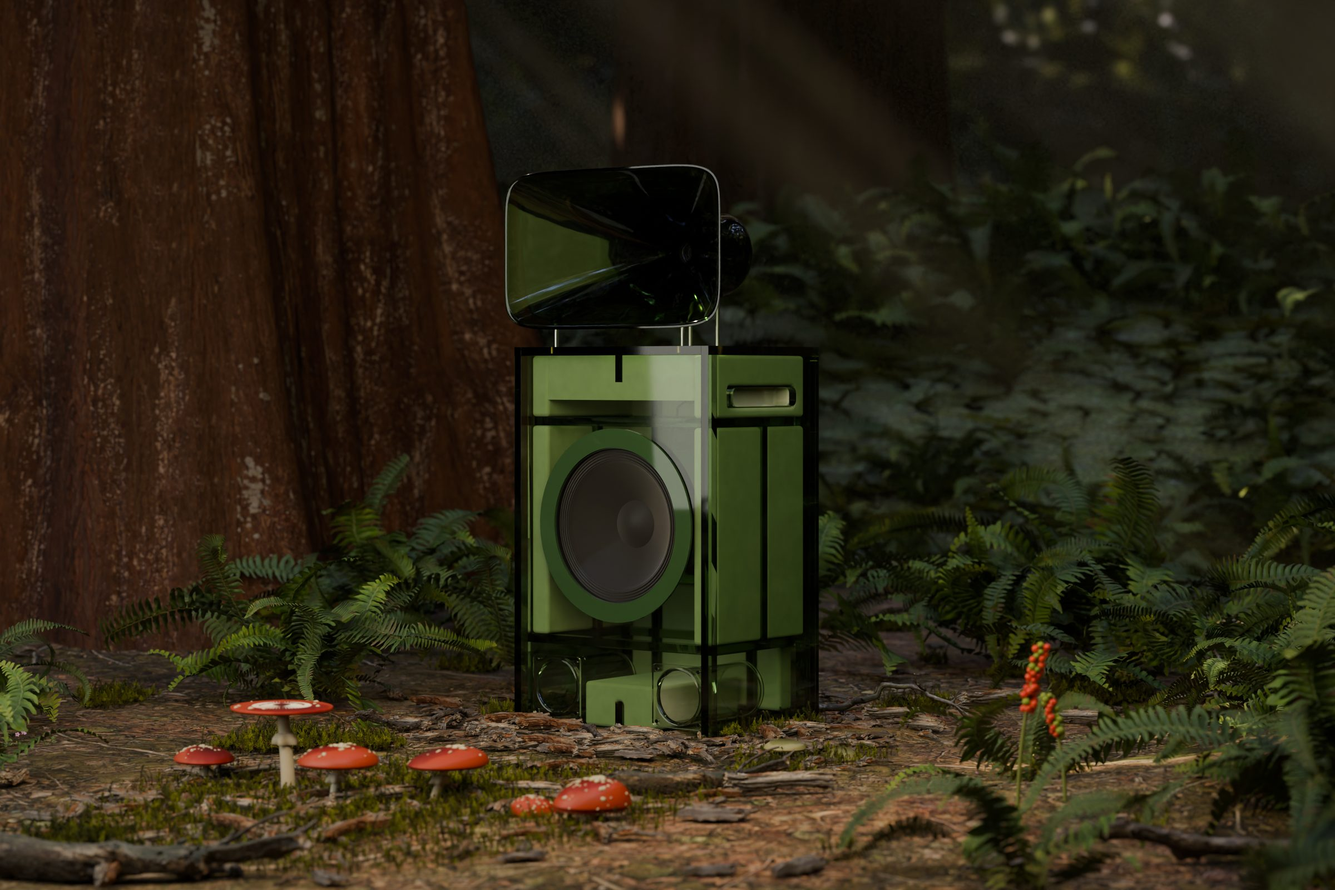
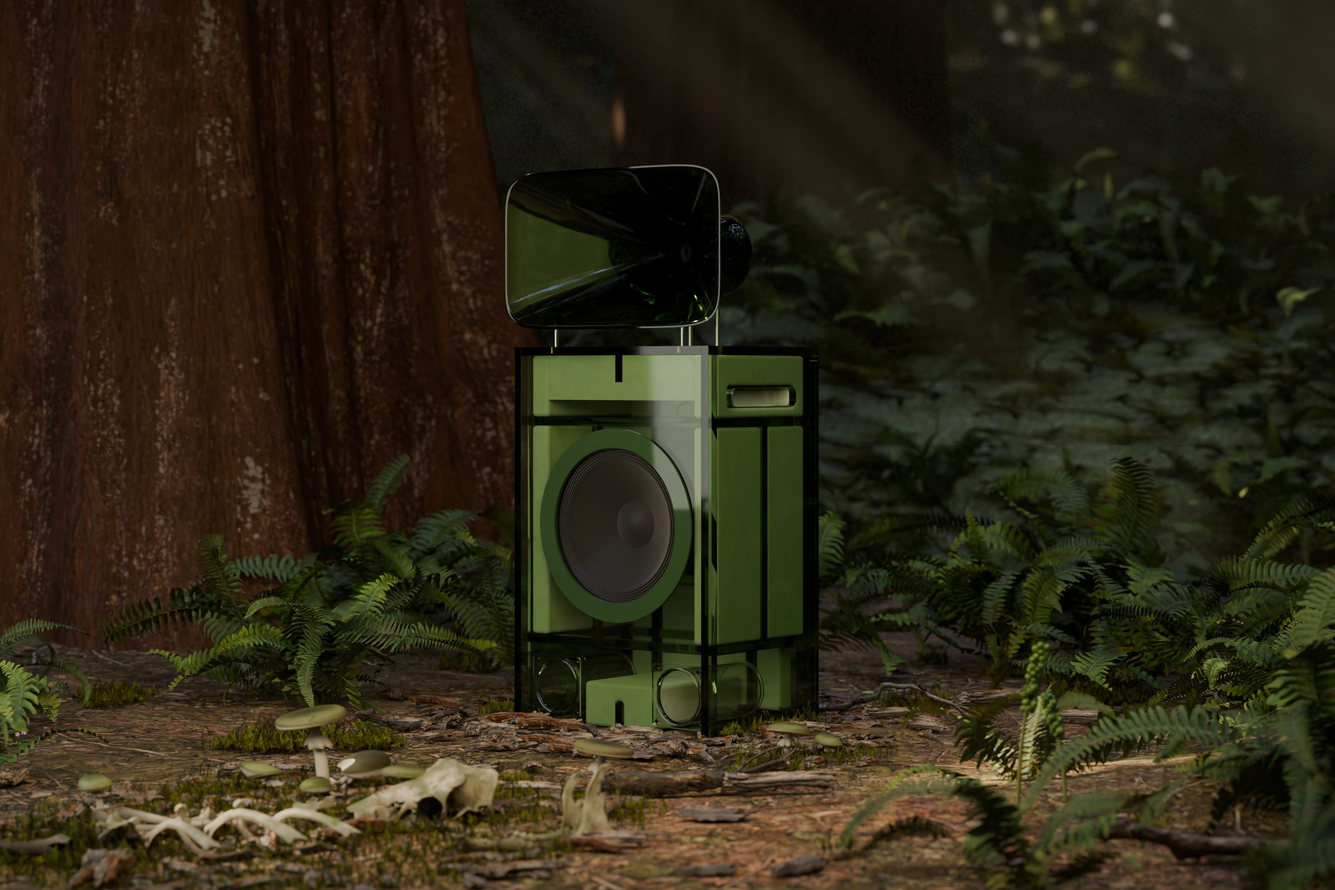
barkhorn site: Poison in its element is G5, death caps and a deer's bones (the owner, 2026-10-22: "Poison: put the deadly green one live")
ELEMENT['green'] = 'poison_g5', captioned "on a redwood forest floor, among death caps and a
deer's bones"; the three habitat pictures rebuilt from the finals. Checked locally at 1440,
820 and 390 px, light and dark: the pictures load, the caption shows, no overflow, no page
errors. F1b stays in the repo. README: the owner's picks of 2026-10-22.

Claude-Session: https://claude.ai/code/session_016Hs9fK3h2VwVeRXpa18b1z

diff --git a/spinoffs/barkhorn/site/index.html b/spinoffs/barkhorn/site/index.html
@@ -610,7 +610,7 @@ html.cursor, html.cursor * { cursor: none !important }
 </div></footer>
 
 <script>
[2 lines of base64/hex data omitted]
 const SLUG = Object.fromEntries(D.clouds.map(c => [c.name.toLowerCase(), c.k])), keyOf = w => SLUG[w] || (BY[w] ? w : null);
 const reduce = matchMedia('(prefers-reduced-motion: reduce)').matches, TAU = Math.PI * 2;
 // lit from below: scrolling picks the colour (a quarter of a screen each) and time plays the change; the coins are a

diff --git a/spinoffs/barkhorn/web.py b/spinoffs/barkhorn/web.py
@@ -62,7 +62,7 @@ ELEMENT = dict(HABITAT)       # which concept each colour shows in its element: 
 ELEMENT['violet'] = 'haze_b'  # the layered hills beat the lavender field in a blind duel, 2 to 1 (6.2 to 5.9)
 ELEMENT['amber'] = 'acid_b'   # acid rain on black lava beat the acid spring at Dallol in a blind duel, 2 to 1 (6.3 to 5.4)
 ELEMENT['ice'] = 'fog_b'      # the headland above the fog at dawn beat the summit above a sea of cloud in a blind duel, 3 to 0 (6.7 to 4.7)
-ELEMENT['green'] = 'poison_f1b'  # the owner's pick (2026-10-20): A4's wood without the foxgloves, more caps and the arum's berries, after a realism pass
+ELEMENT['green'] = 'poison_g5'   # the owner (2026-10-22): "Poison: put the deadly green one live" - death caps and a deer's bones (G5 p4)
 ELEMENT['black'] = 'smoke_e9'    # the owner (2026-10-21): "I wanted bridge smoke" - the bridge, its smoke simulated (E9 p5)
 PLACES = {  # where each concept stands: the speaker page leads with it ("Ember on a lava field at blue hour.")
     'ember': 'on a lava field at blue hour, the crust cracked to its glow',
@@ -71,6 +71,7 @@ PLACES = {  # where each concept stands: the speaker page leads with it ("Ember 
     'poison': 'on a redwood forest floor, among ferns', 'poison_a3': 'on a redwood forest floor, among ferns, foxgloves and fly agarics',
     'poison_a4': 'on a redwood forest floor, behind a troop of fly agarics, among ferns and foxgloves',
     'poison_f1b': 'on a redwood forest floor, among fly agarics, ferns and the berries of lords-and-ladies',
+    'poison_g5': 'on a redwood forest floor, among death caps and a deer\'s bones',
     'ice': 'in snow country at blue hour', 'ice_b': 'on a black-sand beach among icebergs at sunrise',
     'haze': 'in a lavender field at dusk', 'haze_b': 'before layered hills in a hazy evening light',
     'fog': 'on a summit above a sea of cloud', 'fog_b': 'on a headland above the fog at dawn',

diff --git a/spinoffs/barkhorn/README.md b/spinoffs/barkhorn/README.md
@@ -129,6 +129,7 @@ speakers lit from below and on a night facade, and each Cloud in its element, ph
 | "For the globe I meant use the dark and light mode version of the globe. The multicolor acrylic globe." | **The multicolour globe, round 33c** (in progress, `r31-coin`). Round 33b answered the wrong question: its one-colour globes (Smoke acrylic, board) stay as alternates. The owner means the site's own globe built for real, in its light-mode and dark-mode looks: three meridian discs (green, orange, violet) and three parallel rings (red, blue, yellow), slotted, in the speakers' own chromatic acrylics. **Light mode**: on paper under a hard light, the tints throwing coloured light and shadow across the surface. **Dark mode**: glowing as the site's night globe does; how a real one glows is to be proofed honestly (fluorescent cast acrylic over a UV-A ring in its base, so one object does both modes, or edge-lit from the base). Then a fab kit at 300 mm and about 1 m, a BOM and retail, two finals, and a kit piece so Planet can stand one on the back bar. |
 | "For poison, the algae idea is too goofy. What other poisonous plants or animals are there? You could combine a lot of them into a forest or rainforest biome, alongside the red caps." | **Poison, a forest of real poisons** (in progress, `r31-element-poison-p`). The lake is dropped (it never went live; A4 stays). Nothing purple (the owner's earlier note: "purple plants (foxgloves) look fake"), and the snake the owner first suggested. Two proofs: **a European poison wood** (recommended; birch and beech in mist, every species native to it): fly agarics with birch, an adder, a fire salamander, lords-and-ladies' red berries, deadly nightshade's black berries, yew's red arils, death caps; and **a tropical rainforest**: poison dart frogs, a golden eyelash viper, angel's trumpet, castor bean, dumb cane, rosary pea, with the red caps (which don't grow in the tropics, so a staged mix). Animals only where they pass as real at 600 px. A blind duel against A4, each judge seeing both orders, decides whether it goes up. |
 | "Poison: A, the new pass" "Smoke: A, salt flat" "Planet: Smoke, ledge at counter height" "EARFcoin: A, engraved, reeded edge" "The Smoke options are both weak. The bridge could be a lot cooler if it looked like the speaker slid along the asphalt and ground it up, like an asteroid might. It needs way more realism though, like a movie still. Poison needs more realism too." | **The owner's picks (2026-10-20), taken from the decision sheet.** **Poison**: the new pass (A4's forest without the foxgloves, with more red caps, death caps and lords-and-ladies berries) goes up after one realism pass on what the judges named (the caps' saturation, the berries' plastic look, the death caps' clutter, A4's moss decal, tiling litter and repeated ferns). A real scanned fly agaric would be the next step; the free ones are CC-BY on Sketchfab and need the owner to download one. **Smoke**: the salt flat (E6 p3) is rendered at full size and goes up; then **E8, the owner's idea**: the speaker came down like an asteroid, slid along the bridge's road and gouged a trench, and stands unhurt at its end, among E7's burning cars, shot like a movie still. It replaces the salt flat only if it clearly beats it. **Planet**: the house look is Smoke, the bar ledges stay at counter height; round 38's finals follow (the coin column and bowl, the black lamps, life in the listening zone, the sink as smoked glass). **EARFcoin**: signed, A (reverse-engraved, filled black, white on Smoke) with a reeded edge; B and C stay on the sheet as alternates. **Since (2026-10-21):** Poison F1b (p5, realism 4.5/4.5) and the salt flat (E6 p3, landscape and phone) are live on the site. E8 stopped after four proofs: none read as a crash or a slide, and the best (p1) lost its balanced duel to the salt flat 5.1 to 5.75. Both went to the owner. Then the owner: "I wanted bridge smoke. That smoke looks bad". **E9** rebuilt the bridge around smoke that is simulated, not drawn (`plume_sim.py`), and its p5 (realism 5/5) replaced the salt flat on the site, landscape and phone. |
+| "Poison: put the deadly green one live" "Smoke: the road; fire engulfed, woofer still visible" "Bridge: put the bigger bridge pass live meanwhile" "It's okay for the speaker to be engulfed but the flames in front should be climbing up the edges, not past the driver. The chasm in the road is too linear on both sides. It needs to be more jagged or crude, while maintaining realism. The speaker should look like it just crashed down, standing upright though." "You gotta redo the website now. Do a pass so it works more like an e-commerce site in terms of the information architecture. A home page that highlights each product line, and then product detail pages where users can browse colors. The product detail pages are where we'll have sections for complementary, analogous, and monochromatic colors. We also need to finalize the record player." "I also want to validate a couple of things. First, that your designs for the speakers, lights, and record player would actually work. Right components, engineering, etc. Second, that acrylic is the right move for the speakers and resin is the right move for the horn." | **The owner's picks (2026-10-22), from the results page.** **Poison**: G5 (death caps and a deer's bones; realism 6/5, beat G4 2-0 in its duels) is live, landscape and phone. **Bridge**: E10, the bigger pass (beat E9 2-0), renders at full size on four helpers and replaces E9 when it lands. **Smoke**: the road meteor (E12r) goes on, with the flames in front kept below the woofer and climbing its edges, the flames behind backlighting it, the gouge's lips torn jagged, and the speaker upright as if just landed. **Next**: the site rebuilt as a shop (a home page by product line; a page per product with its colours and their complementary, analogous and monochromatic company), the record player finalised, and an engineering and materials review of the speakers, lamps and record player. |
 
 ### The site, a full critic pass (2026-10-18, evening)
 
